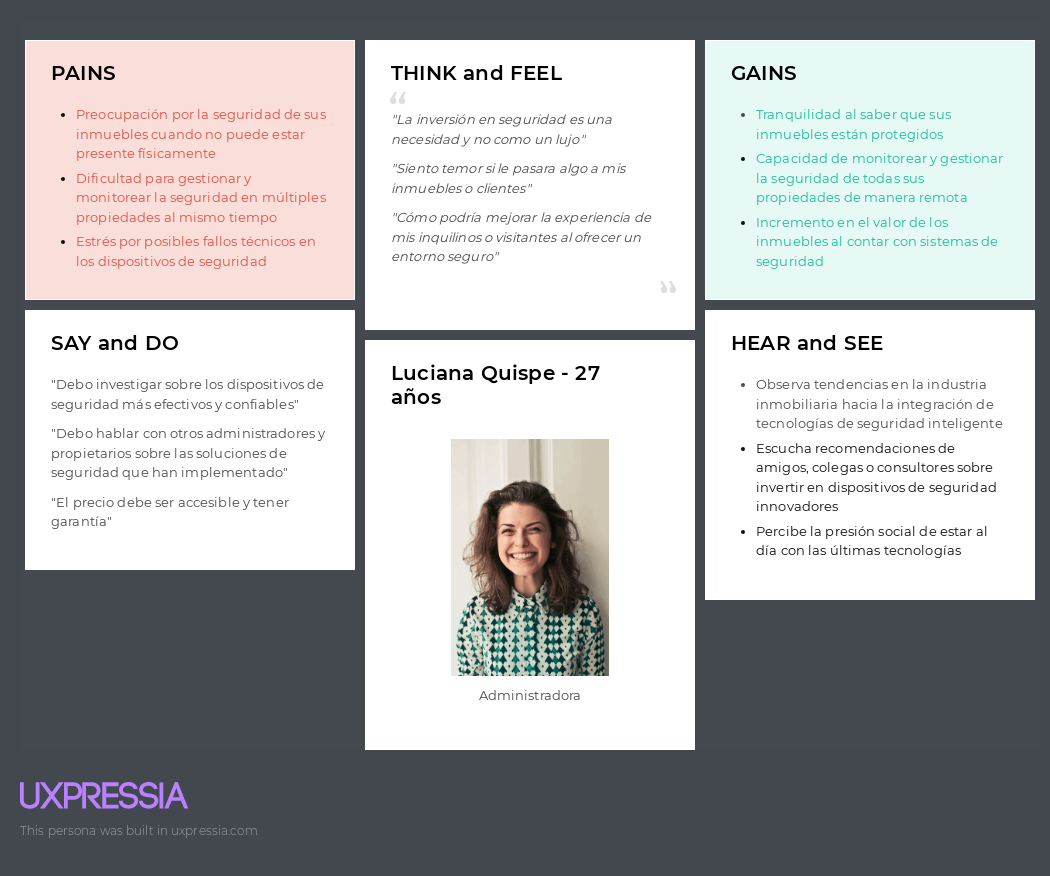
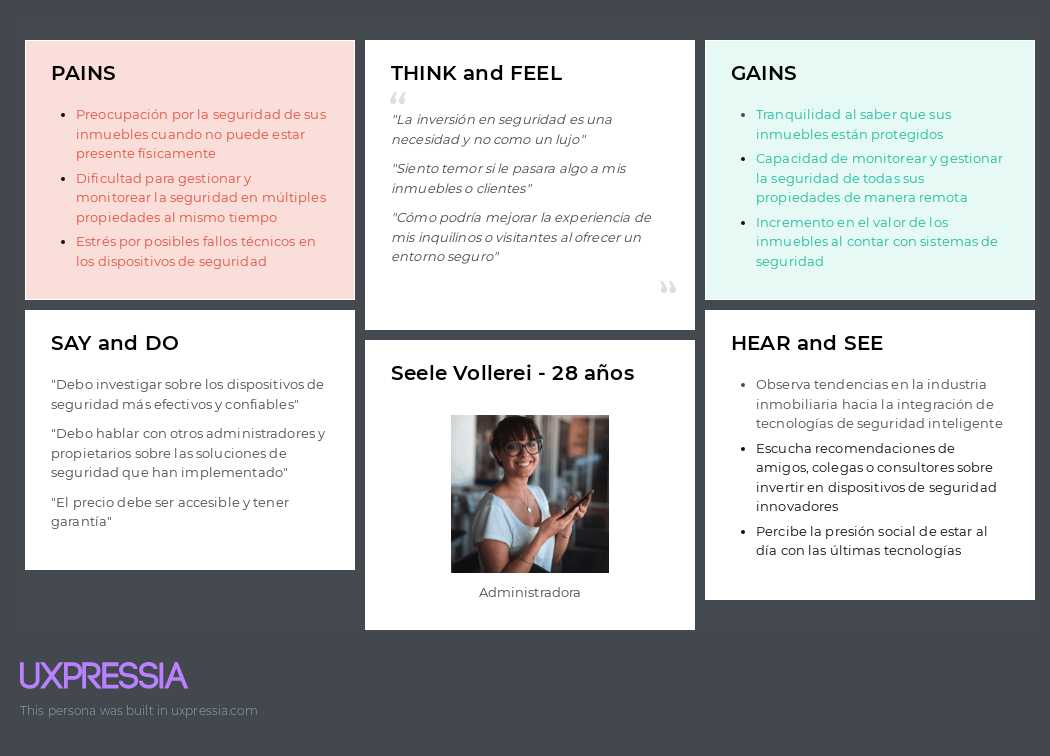
add: user journey mapping and empathy mapping for user personas

Changed region(s): [[0.0, 0.0304, 1.0, 0.8823], [0.0, 0.8519, 0.2438, 0.9735]]

diff --git a/report.md b/report.md
@@ -158,6 +158,34 @@ Los User Personas que se han definido son Seele Vollerei el cual representa al p
 Las tareas que se realizan con mayor frecuencia e importancia por parte de los User Personas son la monitorización de cámaras en tiempo real, la recepción de alertas en tiempo real y la revisión de las grabaciones. En cuanto a las diferencias, se puede observar que Seele Vollerei realiza la instalación de nuevas cámaras y/o dispositivos IoT, mientras que José Ramirez no lo hace, ya que no es su rubro. Por otro lado, las demás tareas coinciden en su importancia y frecuencia, aunque José Ramirez realiza la mayoría de tareas con mayor frecuencia que Seele Vollerei debido a que es su trabajo.
 
 ### 2.3.3. User Journey Mapping
+
+En esta sección se realiza la demostración de la experiencia del usuario con el producto o servicio (como está actualmente). En este caso, se ha realizado el mapeo del viaje del usuario desde el momento en que se plantea la necesidad de adquirir un sistema de seguridad hasta que se instala y se configura el sistema en su hogar (Dueño de inmueble) y desde que se recibe la solicitud o alerta de un cliente hasta que se resuelve el incidente (Empresa de seguridad).
+
+- **User Journey Mapping (Seele Vollerei - Dueño de inmueble)**
+![user journey seg 1](/src/images/user-journey-mapping-seg1.png)
+
+- **User Journey Mapping (José Ramirez - Empresa de seguridad)**
+<!-- TODO -->
+
+
 ### 2.3.4. Empathy Mapping
+
+El proceso de elaboración del Empathy Mapping se ha realizado tomando en cuenta las entrevistas realizadas a los usuarios de cada segmento y en base a la información recopilada en las mismas. A continuación, se presentan los Empathy Mapping de los User Personas definidos.
+
+- **Empathy Mapping (Seele Vollerei - Dueño de inmueble)**
+![empathy mapping seg 1](/src/images/empathy-mapping-seg1.png)
+
+- **Empathy Mapping (José Ramirez - Empresa de seguridad)**
+<!-- TODO -->
+
 ### 2.3.5. As-Is Scenario Mapping
+
+Para la elaboración del As-Is Scenario Mapping se ha seguido el proceso de mapeo de escenarios actuales de los User Personas definidos y una lluvia de ideas tomando en cuenta su situación actual, necesidades, preferencias y el mercado actual. A continuación, se presentan los As-Is Scenario Mapping de los User Personas definidos.
+
+- **As-Is Scenario Mapping (Seele Vollerei - Dueño de inmueble)**
+![as-is scenario seg 1](/src/images/as-is-scenario-mapping-seg1.png)
+
+- **As-Is Scenario Mapping (José Ramirez - Empresa de seguridad)**
+<!-- TODO -->
+
 ## 2.4. Ubiquitous Language
